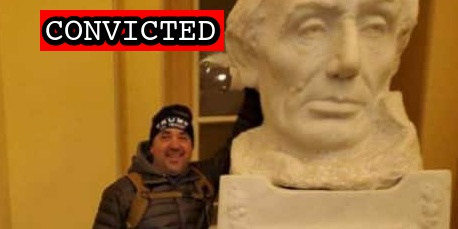
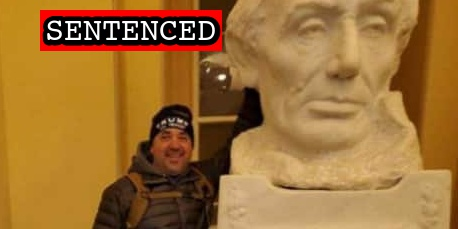
More sentencing

Changed region(s): [[0.214, 0.0611, 0.3974, 0.214], [0.0917, 0.0611, 0.1834, 0.214], [0.4585, 0.0306, 0.4891, 0.214]]

diff --git a/docs/_suspects/samuel-fox.md b/docs/_suspects/samuel-fox.md
@@ -4,18 +4,18 @@ lastName: Fox
 hashtag: SamuelFox
 aka:
 residence: Pennsylvania
-status: Convicted
+status: Sentenced
 date: 2021-06-23
 charged: 2021-06-23
 indicted:
 convicted: 2021-11-05
 acquitted:
-sentenced:
+sentenced: 2022-04-05
 dismissed:
 deceased:
 plea_hearing: 2021-11-05
 trial_date:
-sentencing:
+sentencing: 2022-04-05
 age:
 occupation:
 affiliations:
@@ -36,12 +36,17 @@ published: true
 caseNumber: 1:21-mj-479
 videos:
 charges:
-- code: 40 USC § 5104(e)(2)(G)
-  title: Parading, demonstrating or picketing in a Capitol building
-  url: https://www.law.cornell.edu/uscode/text/40/5104
-  felony: false
+  - code: 40 USC § 5104(e)(2)(G)
+    title: Parading, demonstrating or picketing in a Capitol building
+    url: https://www.law.cornell.edu/uscode/text/40/5104
+    felony: false
 sentence:
+  - 60 days home detention
+  - 3 years probation
+  - $2500 fine
+  - $500 restitution
 ---
+
 - [News Report](https://triblive.com/local/westmoreland/3-more-western-pa-residents-including-scottdale-man-charged-in-capitol-riots/)
 - [Complaint](https://extremism.gwu.edu/sites/g/files/zaxdzs2191/f/Samuel%20Christopher%20Fox%20Criminal%20Complaint.pdf)
 - [Statement of Facts](https://www.justice.gov/usao-dc/case-multi-defendant/file/1437321/download)
@@ -49,4 +54,4 @@ sentence:
 - [Plea Agreement](https://www.justice.gov/usao-dc/case-multi-defendant/file/1447241/download)
 - [Statement of Offense](https://www.justice.gov/usao-dc/case-multi-defendant/file/1447246/download)
 - [Sentencing Memo](https://extremism.gwu.edu/sites/g/files/zaxdzs2191/f/Samuel%20Christopher%20Fox%20Defense%20Sentencing%20Memorandum.pdf)
-- [Judgement](https://extremism.gwu.edu/sites/g/files/zaxdzs2191/f/Samuel%20Christopher%20Fox%20Judgment.pdf)
+- [Judgement](https://storage.courtlistener.com/recap/gov.uscourts.dcd.232802/gov.uscourts.dcd.232802.40.0_2.pdf)

diff --git a/docs/_suspects/kelly-obrien.md b/docs/_suspects/kelly-obrien.md
@@ -4,18 +4,18 @@ lastName: O'Brien
 hashtag: KellyO'Brien
 aka:
 residence: Pennsylvania
-status: Convicted
+status: Sentenced
 date: 2021-08-12
 charged: 2021-08-12
 indicted:
 convicted: 2022-01-05
 acquitted:
-sentenced:
+sentenced: 2022-04-06
 dismissed:
 deceased:
 plea_hearing: 2022-01-05
 trial_date:
-sentencing:
+sentencing: 2022-04-06
 age:
 occupation:
 affiliations:
@@ -36,14 +36,20 @@ published: true
 caseNumber: 1:21-cr-633
 videos:
 charges:
-- code: 18 USC § 1752(a)(1)
-  title: Entering a restricted building or grounds
-  url: https://www.law.cornell.edu/uscode/text/18/1752
-  felony: false
+  - code: 18 USC § 1752(a)(1)
+    title: Entering a restricted building or grounds
+    url: https://www.law.cornell.edu/uscode/text/18/1752
+    felony: false
 sentence:
+  - 90 days incarceration
+  - 1 year probation
+  - $1000 fine
+  - $500 restitution
 ---
+
 - [News Report](https://www.mcall.com/news/pennsylvania/mc-nws-pa-lehigh-woman-charged-capitol-20210820-gsmk4wiaxrb63gtobzny7ujvcq-story.html)
 - [Statement of Facts](https://www.justice.gov/usao-dc/case-multi-defendant/file/1456766/download)
 - [Information](https://www.justice.gov/usao-dc/case-multi-defendant/file/1456771/download)
 - [Plea Agreement](https://www.justice.gov/usao-dc/case-multi-defendant/file/1469051/download)
 - [Statement of Offense](https://www.justice.gov/usao-dc/case-multi-defendant/file/1469056/download)
+- [Judgement](https://storage.courtlistener.com/recap/gov.uscourts.dcd.236684/gov.uscourts.dcd.236684.36.0_1.pdf)

diff --git a/docs/_suspects/michael-hardin.md b/docs/_suspects/michael-hardin.md
@@ -4,13 +4,13 @@ lastName: Hardin
 hashtag: MichaelHardin
 aka:
 residence: Utah
-status: Convicted
+status: Sentenced
 date: 2021-04-02
 charged: 2021-04-02
 indicted:
 convicted: 2022-01-22
 acquitted:
-sentenced:
+sentenced: 2022-04-11
 dismissed:
 deceased:
 plea_hearing: 2022-01-22
@@ -37,7 +37,12 @@ caseNumber: 1:21-cr-280
 videos:
 charges:
 sentence:
+  - 30 days home detention
+  - 18 months probation
+  - 60 hours community service
+  - $500 restitution
 ---
+
 - [News Report](https://www.washingtonpost.com/nation/2021/04/03/former-utah-police-capitol-riot/)
 - [Complaint](https://www.justice.gov/usao-dc/case-multi-defendant/file/1382931/download)
 - [Statement of Facts](https://www.justice.gov/usao-dc/case-multi-defendant/file/1382936/download)

diff --git a/docs/_suspects/william-merry.md b/docs/_suspects/william-merry.md
@@ -42,6 +42,8 @@ charges:
     felony: false
 sentence:
   - 45 days incarceration
+  - 9 months probation
+  - 80 hours community service
   - $500 restitution
 ---
 
@@ -51,3 +53,4 @@ sentence:
 - [Plea Agreement](https://www.justice.gov/usao-dc/case-multi-defendant/file/1461901/download)
 - [Sentencing Memo](https://extremism.gwu.edu/sites/g/files/zaxdzs2191/f/William%20Merry%20Government%20Sentencing%20Memorandum.pdf)
 - [Statement of Offense](https://www.justice.gov/usao-dc/case-multi-defendant/file/1461906/download)
+- [Judgement](https://storage.courtlistener.com/recap/gov.uscourts.dcd.238794/gov.uscourts.dcd.238794.49.0.pdf)

diff --git a/docs/_suspects/joseph-zlab.md b/docs/_suspects/joseph-zlab.md
@@ -53,3 +53,4 @@ sentence:
 - [Information](https://www.justice.gov/usao-dc/case-multi-defendant/file/1414716/download)
 - [Plea Agreement](https://www.justice.gov/usao-dc/case-multi-defendant/file/1469061/download)
 - [Statement of Offense](https://www.justice.gov/usao-dc/case-multi-defendant/file/1469066/download)
+- [Judgement](https://storage.courtlistener.com/recap/gov.uscourts.dcd.232044/gov.uscourts.dcd.232044.56.0.pdf)

diff --git a/docs/_suspects/jason-riddle.md b/docs/_suspects/jason-riddle.md
@@ -46,6 +46,7 @@ sentence:
   - 90 days incarceration
   - 3 years probation
   - mandatory mental health and alcohol abuse treatment
+  - 60 hours community service
   - $754 restitution
 ---
 

diff --git a/docs/_suspects/emily-hernandez.md b/docs/_suspects/emily-hernandez.md
@@ -42,6 +42,8 @@ charges:
     felony: false
 sentence:
   - 30 days incarceration
+  - 1 year probation
+  - 80 hours community service
   - $500 restitution
 ---
 
